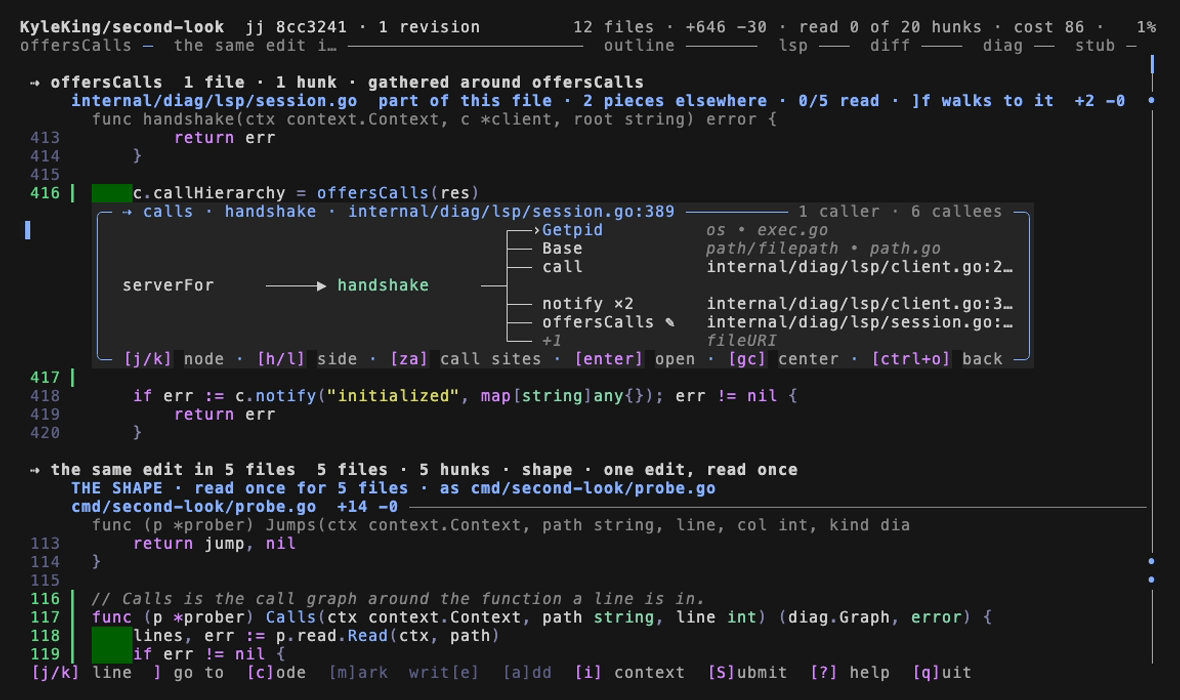
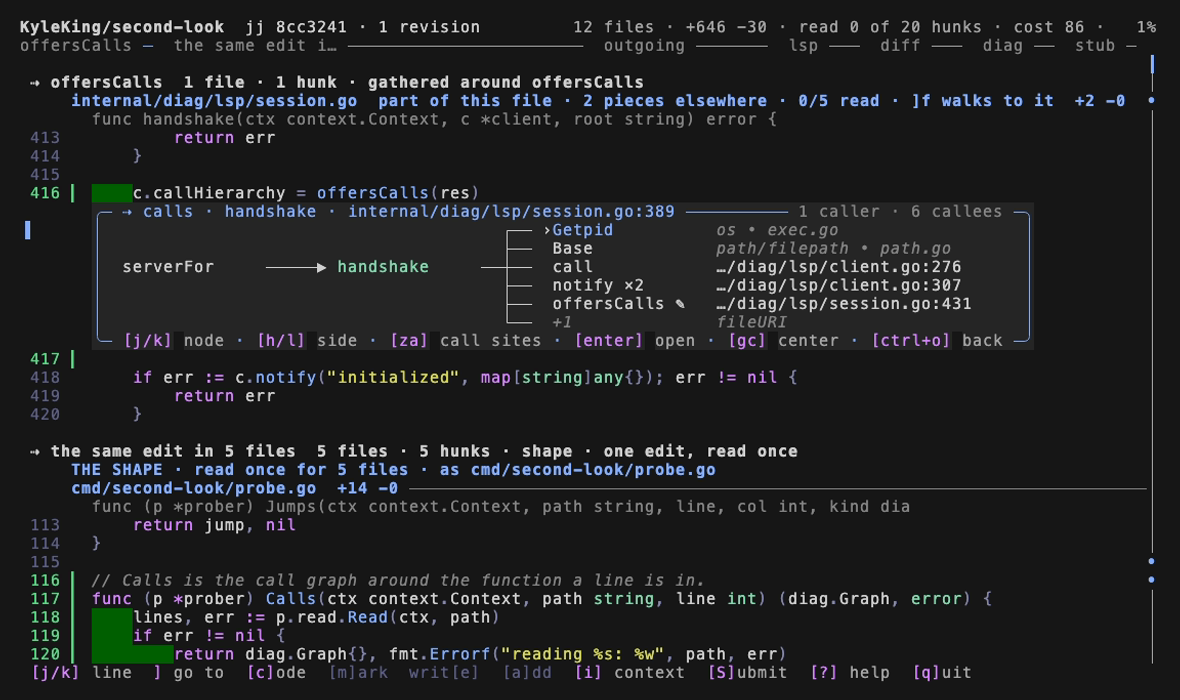
fix(tui): draw the call graph as two contiguous trees that meet the center row

diff --git a/internal/tui/callgraph_test.go b/internal/tui/callgraph_test.go
@@ -14,8 +14,12 @@ func TestDrawGraph(t *testing.T) {
 	node := func(name, where string) tui.GraphNode { return tui.GraphNode{Name: name, Times: 1, Where: where} }
 	sync := tui.GraphNode{Name: "sync", Edited: true, Judge: true}
 
+	handshake, six := tui.GraphNode{Name: "handshake", Edited: true}, sixCallees()
+	serverFor := []tui.GraphNode{node("serverFor", "")}
+
 	for _, tt := range []struct {
 		name      string
+		center    tui.GraphNode
 		callers   []tui.GraphNode
 		callees   []tui.GraphNode
 		onCallees bool
@@ -24,45 +28,98 @@ func TestDrawGraph(t *testing.T) {
 		row       int
 	}{
 		{
-			name: "nothing around it", width: 60,
-			want: []string{" no callers          ▶ sync ✎ ◆       no callees"},
+			name: "nothing around it",
+			want: []string{
+				" no callers          ▶ sync ✎ ◆        no callees",
+			}, center: sync, width: 60,
 		},
 		{
-			name:    "one each way",
+			name: "one each way",
+			want: []string{
+				"›run ✎   ─────▶ sync ✎ ◆ ─────  pages     intake/pages.py:12",
+			}, center: sync, width: 70,
 			callers: []tui.GraphNode{{Name: "run", Times: 1, Edited: true}},
 			callees: []tui.GraphNode{node("pages", "intake/pages.py:12")},
-			width:   70,
-			want:    []string{"›run ✎   ─────▶ sync ✎ ◆ ───── pages     intake/pages.py:12"},
 		},
 		{
-			name:    "folded and selected",
-			callers: []tui.GraphNode{node("run", ""), {Name: "backfill", Times: 3, Judge: true}},
-			callees: []tui.GraphNode{
-				node("pages", "intake/pages.py:12"),
-				{Name: "fetch", Times: 1, Edited: true, Where: "intake/client.py:40"},
-				node("backoff", "intake/sync.py:142"), node("a", "x.py:1"), node("b", "x.py:2"),
-				node("log.warn", "x.py:3"), node("metrics.inc", "x.py:4"),
-			},
-			onCallees: true, at: 1, width: 80, row: 1,
+			name: "one caller, six callees, wide",
 			want: []string{
-				"                                   ┌── pages       intake/pages.py:12",
-				"                                   ├──›fetch   ✎   intake/client.py:40",
-				" run             ──┐               ├── backoff     intake/sync.py:142",
-				"                   ├──▶ sync ✎ ◆ ──┤",
-				" backfill ×3   ◆ ──┘               ├── a           x.py:1",
-				"                                   ├── b           x.py:2",
-				"                                   └── +2          log.warn, metrics.inc",
-			},
+				"                                      ┌── ›Getpid          os • exec.go",
+				"                                      ├──  Base            path/filepath • path.go",
+				" serverFor     ─────▶ handshake ✎   ──┼──  call            internal/diag/lsp/client.go:231",
+				"                                      ├──  notify ×2       internal/diag/lsp/client.go:310",
+				"                                      ├──  offersCalls ✎   internal/diag/lsp/session.go:428",
+				"                                      └──  +1              fileURI",
+			}, center: handshake, callers: serverFor, callees: six, onCallees: true, width: 100,
+		},
+		{
+			name: "one caller, six callees, medium",
+			want: []string{
+				"                                      ┌──  Getpid          os • exec.go",
+				"                                      ├──  Base            …/filepath • path.go",
+				"›serverFor     ─────▶ handshake ✎   ──┼──  call            …/lsp/client.go:231",
+				"                                      ├──  notify ×2       …/lsp/client.go:310",
+				"                                      ├──  offersCalls ✎   …/lsp/session.go:428",
+				"                                      └──  +1              fileURI",
+			}, row: 2, center: handshake, callers: serverFor, callees: six, width: 80,
+		},
+		{
+			name: "one caller, six callees, narrow",
+			want: []string{
+				"                                      ┌──  Getpid",
+				"                                      ├──  Base",
+				" serverFor     ─────▶ handshake ✎   ──┼── ›call",
+				"                                      ├──  notify ×2",
+				"                                      ├──  offersCa… ✎",
+				"                                      └──  +1",
+			}, row: 2, center: handshake, callers: serverFor, callees: six, width: 56, at: 2, onCallees: true,
+		},
+		{
+			name: "two callers, seven callees",
+			want: []string{
+				"                                   ┌──  Getpid        os • exec.go",
+				"                                   ├── ›Base          path/filepath • path.go",
+				" run             ──┬──▶ sync ✎ ◆ ──┼──  call          …/diag/lsp/client.go:231",
+				" backfill ×3   ◆ ──┘               ├──  notify ×2     …/diag/lsp/client.go:310",
+				"                                   ├──  a             x.py:1",
+				"                                   └──  +2            b, c",
+			}, row: 1, center: sync, width: 80, onCallees: true, at: 1,
+			callers: []tui.GraphNode{node("run", ""), {Name: "backfill", Times: 3, Judge: true}},
+			callees: append(slices.Clone(six[:4]), node("a", "x.py:1"), node("b", "x.py:2"), node("c", "x.py:3")),
+		},
+		{
+			name: "four callers, one callee",
+			want: []string{
+				"›a     ──┐",
+				" b     ──┼──▶ sync ✎ ◆ ─────  pages     p.py:1",
+				" c     ──┤",
+				" d     ──┘",
+			}, center: sync, width: 70,
+			callers: []tui.GraphNode{node("a", ""), node("b", ""), node("c", ""), node("d", "")},
+			callees: []tui.GraphNode{node("pages", "p.py:1")},
 		},
 	} {
 		t.Run(tt.name, func(t *testing.T) {
 			t.Parallel()
 
-			got, row := tui.DrawGraph(sync, tt.callers, tt.callees, tt.onCallees, tt.at, tt.width)
+			got, row := tui.DrawGraph(tt.center, tt.callers, tt.callees, tt.onCallees, tt.at, tt.width)
 			if !slices.Equal(got, tt.want) || row != tt.row {
 				t.Errorf("laid out at %d\n%s\nwant at %d\n%s",
 					row, strings.Join(got, "\n"), tt.row, strings.Join(tt.want, "\n"))
 			}
 		})
+	}
+}
+
+// sixCallees are what handshake calls, two of them outside the checkout.
+func sixCallees() []tui.GraphNode {
+	node := func(name, where string) tui.GraphNode { return tui.GraphNode{Name: name, Times: 1, Where: where} }
+
+	return []tui.GraphNode{
+		node("Getpid", "os • exec.go"), node("Base", "path/filepath • path.go"),
+		node("call", "internal/diag/lsp/client.go:231"),
+		{Name: "notify", Times: 2, Where: "internal/diag/lsp/client.go:310"},
+		{Name: "offersCalls", Times: 1, Edited: true, Where: "internal/diag/lsp/session.go:428"},
+		node("fileURI", "x.go:1"),
 	}
 }

diff --git a/internal/tui/callgraph.go b/internal/tui/callgraph.go
@@ -17,10 +17,9 @@ const (
 	markAndGap        = 2
 	graphNameMax      = 22
 	graphCenter       = 26
-	graphWhereMax     = 34
 	graphWhereMin     = 12
 	graphNameMin      = 6
-	graphChrome       = 28
+	graphChrome       = 29
 	graphCenterChrome = 11
 	noCallers         = "no callers"
 	noCallees         = "no callees"
@@ -82,7 +81,7 @@ func (c graphCols) total() int {
 // down however many nodes a side has.
 func layoutGraph(v graphView, width int) ([]graphLine, int) {
 	left, right := foldSide(v.callers), foldSide(v.callees)
-	mid := max(len(left), len(right)) / graphHalves
+	mid := max(trunkRow(len(left)), trunkRow(len(right)))
 	g := grid{
 		center: v.center, mid: mid, left: newGridSide(left, mid), right: newGridSide(right, mid),
 		cols: fitColumns(graphColumns(v.center, left, right), width),
@@ -98,51 +97,43 @@ func layoutGraph(v graphView, width int) ([]graphLine, int) {
 		selected = g.right.rowOf(v.at)
 	}
 
-	out := make([]graphLine, 0, graphHalves*mid+1)
+	rows := max(mid, g.left.hi, g.right.hi) + 1
+	out := make([]graphLine, 0, rows)
 
-	for row := range graphHalves*mid + 1 {
+	for row := range rows {
 		out = append(out, g.draw(row))
 	}
 
 	return out, selected
 }
 
-// gridSide places one side's nodes on the grid's rows: half above the center's
-// row, one on it where the count is odd, and half below.
+// trunkRow is how far down a side of k nodes the center's row falls: the middle
+// node, the upper of the two where k is even.
+func trunkRow(k int) int { return max(0, (k-1)/graphHalves) }
+
+// gridSide places one side's nodes on consecutive rows, positioned so the
+// center's row is one of them.
 type gridSide struct {
 	nodes  []graphNode
-	mid    int
 	byRow  map[int]int
 	lo, hi int
 }
 
 func newGridSide(nodes []graphNode, mid int) gridSide {
-	s := gridSide{nodes: nodes, mid: mid, byRow: map[int]int{}, lo: mid, hi: mid}
+	s := gridSide{nodes: nodes, byRow: map[int]int{}, lo: mid - trunkRow(len(nodes))}
+	s.hi = s.lo + len(nodes) - 1
 
 	for i := range nodes {
-		r := s.rowOf(i)
-		s.byRow[r] = i
-		s.lo, s.hi = min(s.lo, r), max(s.hi, r)
+		s.byRow[s.lo+i] = i
 	}
 
 	return s
 }
 
-func (s gridSide) rowOf(i int) int {
-	above := len(s.nodes) / graphHalves
+func (s gridSide) rowOf(i int) int { return s.lo + i }
 
-	switch {
-	case i < above:
-		return s.mid - above + i
-	case i == above && len(s.nodes)%2 == 1:
-		return s.mid
-	}
-
-	return s.mid + 1 + i - above - len(s.nodes)%2
-}
-
-// bracket is the vertical rule joining a side's nodes to the center, drawn
-// from the first node's row to the last and through the center's own.
+// bracket is the vertical rule joining a side's nodes to the center, drawn from
+// the first node's row to the last, which the center's row is always among.
 func (s gridSide) bracket(row int, toward, away bool) string {
 	if len(s.nodes) == 0 || row < s.lo || row > s.hi {
 		return " "
@@ -184,7 +175,7 @@ func (g grid) draw(row int) graphLine {
 		b.add(strings.Repeat(" ", g.cols.center+graphCenterChrome), highlight.Plain)
 	}
 
-	b.add(g.right.bracket(row, onMid, hasR)+arm(hasR), highlight.Plain)
+	b.add(g.right.bracket(row, onMid, hasR)+arm(hasR)+" ", highlight.Plain)
 
 	switch {
 	case hasR:
@@ -225,7 +216,6 @@ func graphColumns(center graphNode, left, right []graphNode) graphCols {
 	}
 
 	c.left, c.right = min(c.left, graphNameMax), min(c.right, graphNameMax)
-	c.where = min(c.where, graphWhereMax)
 
 	if len(left) == 0 {
 		c.left = len(noCallers)
@@ -375,7 +365,7 @@ func (l *lineBuilder) where(n graphNode, width int) {
 	}
 
 	l.add(" ", highlight.Plain)
-	l.add(cut(n.where, width), class)
+	l.add(cutPath(n.where, width), class)
 }
 
 func (l *lineBuilder) line() graphLine {
@@ -392,4 +382,19 @@ func (l *lineBuilder) line() graphLine {
 	}
 
 	return graphLine{text: trimmed, spans: spans}
+}
+
+// cutPath cuts a location to width, dropping leading directories before it
+// touches the file name and line.
+func cutPath(s string, width int) string {
+	for textWidth(s) > width {
+		i := strings.Index(strings.TrimPrefix(s, "…/"), "/")
+		if i < 0 {
+			return cutTail(s, width)
+		}
+
+		s = "…/" + strings.TrimPrefix(s, "…/")[i+1:]
+	}
+
+	return s
 }
